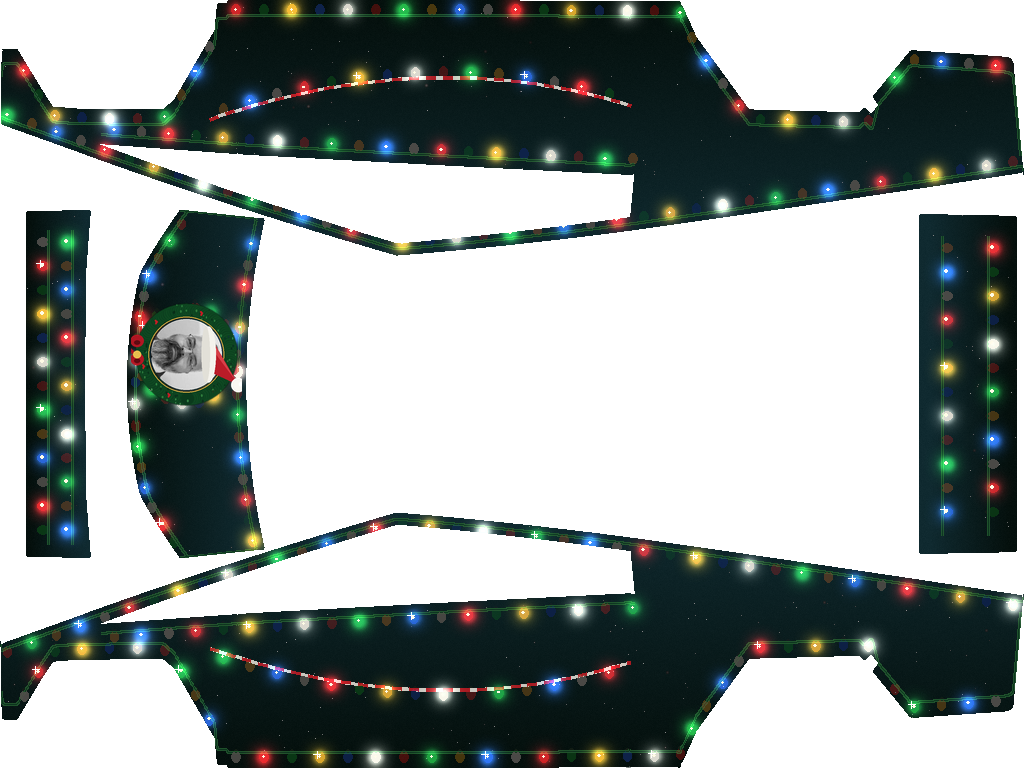
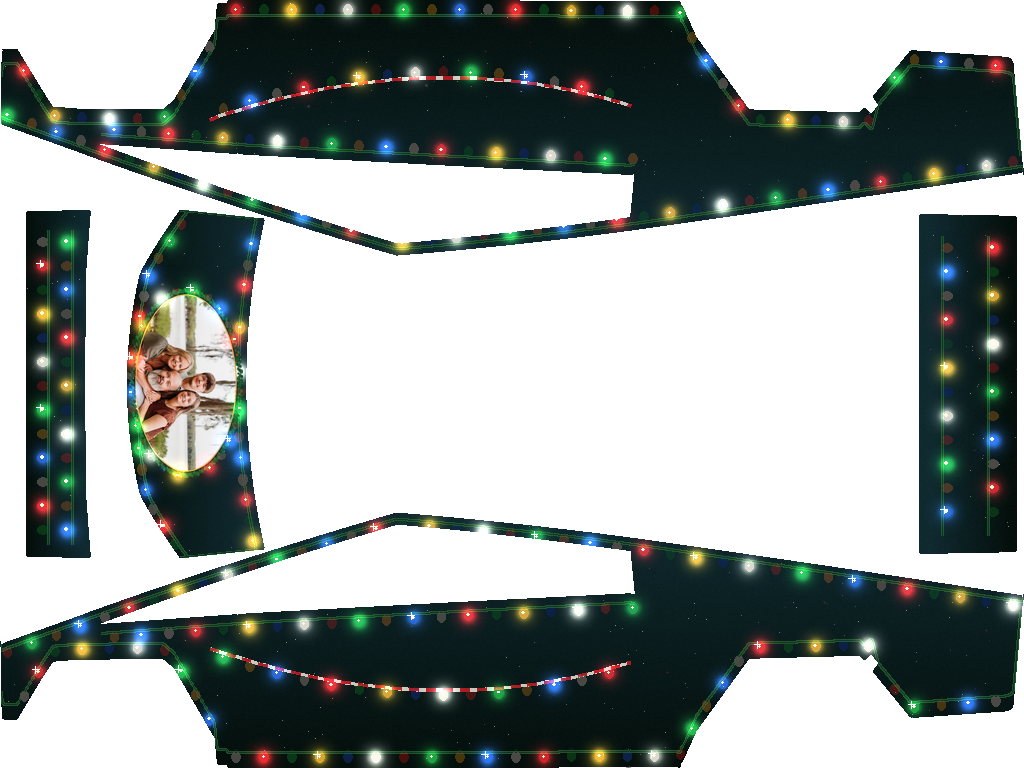
Put the family portrait on the Cybertruck hood
Replace the GitHub avatar with a larger oval crop of the four people,
centered on the hood panel. The wreath and light ring follow the oval;
the Santa hat is gone. The three twinkle states are otherwise unchanged.

Changed region(s): [[0.125, 0.3438, 0.25, 0.7188]]

diff --git a/cybertruck/generate_christmas_lights.py b/cybertruck/generate_christmas_lights.py
@@ -24,8 +24,8 @@ view of the same UV):
     Left bar      (x ~26-90)  front fascia. +x is up, +y is driver's side.
     Right bar     (x ~919-1016) tailgate. +x is down, +y is driver's side.
 
-The hood portrait is drawn upright, then rotated 90 degrees clockwise so the
-head points at the windshield.
+The family photo is drawn upright, then rotated 90 degrees clockwise so the
+heads point at the windshield and the group reads left-to-right from the front.
 
 Requires Pillow and numpy. Run from anywhere:
 
@@ -44,7 +44,9 @@ from scipy import ndimage
 
 ROOT = Path(__file__).resolve().parent
 TEMPLATE = ROOT / "template.png"
-AVATAR = ROOT / "assets" / "commit2cloud_avatar.png"
+FAMILY = ROOT / "assets" / "family_photo.jpg"
+# Tight crop of the four people on the 1600x1067 source. Every head stays in frame.
+FAMILY_CROP = (160, 0, 1520, 780)
 OUT_DIR = ROOT / "example"
 PREVIEW_DIR = ROOT / "preview"
 
@@ -65,11 +67,16 @@ WIRE = (14, 58, 32)
 WIRE_HI = (36, 92, 48)
 SOCKET = (18, 28, 20)
 
-# Hood medallion. Center is filled in from the hood island at runtime
-# (largest inscribed circle). These are the fallbacks and the radii.
-HOOD_CENTER = (187, 355)
-HOOD_FACE_R = 36
-HOOD_RING_R = 50
+# Hood portrait. place_hood() recenters this on the hood island.
+# Upright size: width runs across the family, height runs heads-to-feet.
+# A clockwise quarter-turn maps height onto template +x (toward the windshield)
+# and width onto template +y (across the hood).
+HOOD_CENTER = (186, 383)
+PHOTO_H = 100
+PHOTO_W = 174
+WREATH_PAD = 6
+HOOD_RING_RX = PHOTO_H / 2 + WREATH_PAD - 1
+HOOD_RING_RY = PHOTO_W / 2 + WREATH_PAD - 1
 
 BULB_SPACING = 28
 RING_SPACING = 17
@@ -109,13 +116,49 @@ def panel_masks(mask: np.ndarray) -> dict[str, np.ndarray]:
     return found
 
 
+def _ellipse_inside(hood: np.ndarray, cx: int, cy: int, rx: float, ry: float) -> bool:
+    if rx < 2 or ry < 2:
+        return False
+    yy, xx = np.ogrid[: hood.shape[0], : hood.shape[1]]
+    ell = ((xx - cx) / rx) ** 2 + ((yy - cy) / ry) ** 2 <= 1.0
+    return bool(ell.any() and np.all(hood[ell]))
+
+
 def place_hood(hood: np.ndarray) -> None:
-    """Center the medallion on the largest circle inside the hood island."""
-    global HOOD_CENTER
-    dist = ndimage.distance_transform_edt(hood)
-    cy, cx = np.unravel_index(int(dist.argmax()), dist.shape)
-    HOOD_CENTER = (int(cx), int(cy))
-    print(f"  hood medallion center {HOOD_CENTER}  inscribed r={dist[cy, cx]:.1f}")
+    """Center the portrait on the hood island and size it to the panel.
+
+    Vertical center is the middle of the island. Horizontal center is the
+    middle of the hood's depth at that row, so the oval sits in the panel
+    rather than on the inscribed-circle point the single avatar used.
+    """
+    global HOOD_CENTER, PHOTO_H, PHOTO_W, HOOD_RING_RX, HOOD_RING_RY
+    rows = np.where(hood.any(axis=1))[0]
+    cy = int((int(rows.min()) + int(rows.max())) // 2)
+    cols = np.where(hood[cy])[0]
+    cx = int((int(cols.min()) + int(cols.max())) // 2)
+    HOOD_CENTER = (cx, cy)
+
+    crop = Image.open(FAMILY).convert("RGB").crop(FAMILY_CROP)
+    aspect = crop.size[0] / crop.size[1]
+    # Grow until the light ellipse, plus a couple of pixels for the bulb glass,
+    # would leave the hood. Then step back so the frame stays on the panel.
+    height = 80
+    while height < 130:
+        width = int(round(height * aspect))
+        rx = height / 2 + WREATH_PAD + 2
+        ry = width / 2 + WREATH_PAD + 2
+        if not _ellipse_inside(hood, cx, cy, rx, ry):
+            break
+        height += 2
+    height -= 2
+    PHOTO_H = height
+    PHOTO_W = int(round(height * aspect))
+    HOOD_RING_RX = PHOTO_H / 2 + WREATH_PAD - 1
+    HOOD_RING_RY = PHOTO_W / 2 + WREATH_PAD - 1
+    print(
+        f"  hood portrait center {HOOD_CENTER}  "
+        f"photo {PHOTO_W}x{PHOTO_H}  light ellipse rx={HOOD_RING_RX:.0f} ry={HOOD_RING_RY:.0f}"
+    )
 
 
 def _runs(ys: np.ndarray) -> list[np.ndarray]:
@@ -233,13 +276,20 @@ def keep_inside(points: np.ndarray, mask: np.ndarray, margin: int = 3) -> np.nda
     return np.asarray(kept, np.float64) if kept else np.zeros((0, 2))
 
 
-def circle_points(cx, cy, radius, spacing) -> np.ndarray:
-    n = max(8, int(round(2 * math.pi * radius / spacing)))
+def ellipse_points(cx, cy, rx, ry, spacing) -> np.ndarray:
+    """Bulbs around the oval portrait. Angle 0 is template +x, the windshield side."""
+    h = ((rx - ry) / (rx + ry)) ** 2
+    circ = math.pi * (rx + ry) * (1 + 3 * h / (10 + math.sqrt(max(0.0, 4 - 3 * h))))
+    n = max(12, int(round(circ / spacing)))
     ang = np.linspace(0, 2 * math.pi, n, endpoint=False)
-    # Start at the top of the portrait (which becomes the windshield side
-    # after the clockwise rotation) so the first bulb sits above the hat.
-    ang = ang - math.pi / 2
-    return np.stack([cx + radius * np.cos(ang), cy + radius * np.sin(ang)], axis=1)
+    return np.stack([cx + rx * np.cos(ang), cy + ry * np.sin(ang)], axis=1)
+
+
+def outside_portrait(x: float, y: float, margin: float = 8) -> bool:
+    cx, cy = HOOD_CENTER
+    rx = HOOD_RING_RX + margin
+    ry = HOOD_RING_RY + margin
+    return ((x - cx) / rx) ** 2 + ((y - cy) / ry) ** 2 > 1.0
 
 
 class Strand:
@@ -271,14 +321,13 @@ def build_strands(panels: dict[str, np.ndarray]) -> list[Strand]:
     # Nose (front edge) and cowl (windshield edge), skipping the medallion.
     for side_name, phase in (("left", 0), ("right", 3)):
         raw = edge_path(hood, side_name, inset=8)
-        cx, cy = HOOD_CENTER
-        trimmed = [(x, y) for x, y in raw if (x - cx) ** 2 + (y - cy) ** 2 > (HOOD_RING_R + 10) ** 2]
+        trimmed = [(x, y) for x, y in raw if outside_portrait(x, y, margin=6)]
         strands.append(Strand(trimmed, (0, 1), phase=phase, spacing=22))
 
     cx, cy = HOOD_CENTER
-    ring = circle_points(cx, cy, HOOD_RING_R, RING_SPACING)
-    # Bulbs on the ring point outward.
-    strands.append(Strand(ring, (0, 0), phase=0, wire="none", spacing=RING_SPACING, radius=(4.4, 4.4)))
+    ring = ellipse_points(cx, cy, HOOD_RING_RX, HOOD_RING_RY, RING_SPACING)
+    # Drawn after the portrait so the bulbs sit on the wreath, not under it.
+    strands.append(Strand(ring, (0, 0), phase=0, wire="ring", spacing=RING_SPACING, radius=(3.6, 3.6)))
 
     front = panels["front"]
     # Two strands across the fascia. +x is up, so the bulbs hang toward -x.
@@ -446,7 +495,7 @@ def render_lights(base: np.ndarray, strands: list[Strand], mask: np.ndarray, var
     sd = ImageDraw.Draw(sparks)
 
     for strand in strands:
-        if strand.wire != "none" and len(strand.points) >= 2:
+        if strand.wire not in ("none", "ring") and len(strand.points) >= 2:
             draw_wire(wd, strand.points, strand.wire)
         samples = resample(strand.points, strand.spacing)
         samples = keep_inside(samples, mask, margin=3)
@@ -493,116 +542,73 @@ def render_lights(base: np.ndarray, strands: list[Strand], mask: np.ndarray, var
 
 
 def make_medallion() -> Image.Image:
-    """Upright portrait, wreath, Santa hat, and bow. Rotated by the caller."""
+    """Oval family portrait with a wreath. Rotated so heads point at the windshield.
+
+    No Santa hat: the crop is four people, and a hat would cover the back row.
+    """
     scale = 3
-    r = HOOD_FACE_R * scale
-    pad = int(r * 1.55)
-    S = pad * 2
-    cx = cy = pad
-    canvas = Image.new("RGBA", (S, S), (0, 0, 0, 0))
-    draw = ImageDraw.Draw(canvas)
+    pad = WREATH_PAD * scale
+    photo = Image.open(FAMILY).convert("RGB").crop(FAMILY_CROP)
+    face = photo.resize((PHOTO_W * scale, PHOTO_H * scale), Image.Resampling.LANCZOS)
+    fw, fh = face.size
+    canvas = Image.new("RGBA", (fw + pad * 2, fh + pad * 2), (0, 0, 0, 0))
+    ox, oy = pad, pad
 
-    # Wreath: a solid needle ring, then a few lighter clumps so it is not a dotted halo.
+    # Oval alpha, feathered so the photo meets the wreath cleanly.
+    alpha = Image.new("L", face.size, 0)
+    ImageDraw.Draw(alpha).ellipse((2, 2, fw - 3, fh - 3), fill=255)
+    alpha = alpha.filter(ImageFilter.GaussianBlur(radius=1.4))
+    face_rgba = face.convert("RGBA")
+    face_rgba.putalpha(alpha)
+
+    # Wreath band just outside the oval.
+    wreath = Image.new("RGBA", canvas.size, (0, 0, 0, 0))
+    wd = ImageDraw.Draw(wreath)
     rng = np.random.default_rng(12)
-    inner, outer = r * 1.06, r * 1.40
-    wreath = Image.new("RGBA", (S, S), (0, 0, 0, 0))
+    cx, cy = canvas.size[0] / 2, canvas.size[1] / 2
+    inner_rx, inner_ry = fw / 2 - 1, fh / 2 - 1
+    outer_rx, outer_ry = canvas.size[0] / 2 - 2, canvas.size[1] / 2 - 2
+    for i in range(360):
+        ang = i / 360 * 2 * math.pi
+        t = 0.35 + 0.55 * ((i % 3) / 2)
+        rx = inner_rx + (outer_rx - inner_rx) * t
+        ry = inner_ry + (outer_ry - inner_ry) * t
+        x = cx + rx * math.cos(ang)
+        y = cy + ry * math.sin(ang)
+        shade = (14, 72, 34, 255) if i % 2 == 0 else (22, 96, 44, 255)
+        nr = 3.2 + (i % 4)
+        wd.ellipse([x - nr, y - nr * 0.7, x + nr, y + nr * 0.7], fill=shade)
+    wreath = wreath.filter(ImageFilter.GaussianBlur(radius=1.2))
     wd = ImageDraw.Draw(wreath)
-    mid = (inner + outer) * 0.5
-    thick = (outer - inner) * 0.55
-    for i in range(240):
-        ang = i / 240 * 2 * math.pi
-        x = cx + mid * math.cos(ang)
-        y = cy + mid * math.sin(ang)
-        shade = (16, 78, 36, 255) if i % 2 == 0 else (10, 58, 28, 255)
-        wd.ellipse([x - thick, y - thick, x + thick, y + thick], fill=shade)
-    wreath = wreath.filter(ImageFilter.GaussianBlur(radius=1.4))
-    wd = ImageDraw.Draw(wreath)
-    for i in range(80):
+    for i in range(70):
         ang = rng.uniform(0, 2 * math.pi)
-        rad = rng.uniform(inner, outer)
-        x = cx + rad * math.cos(ang)
-        y = cy + rad * math.sin(ang)
-        nr = float(rng.uniform(2.0, 4.2))
-        shade = (46, 130, 62, 230) if i % 2 == 0 else (8, 48, 24, 230)
-        wd.ellipse([x - nr, y - nr * 0.6, x + nr, y + nr * 0.6], fill=shade)
+        t = rng.uniform(0.25, 0.95)
+        rx = inner_rx + (outer_rx - inner_rx) * t
+        ry = inner_ry + (outer_ry - inner_ry) * t
+        x = cx + rx * math.cos(ang)
+        y = cy + ry * math.sin(ang)
+        nr = float(rng.uniform(1.6, 3.4))
+        shade = (52, 130, 64, 220) if i % 2 == 0 else (8, 46, 22, 220)
+        wd.ellipse([x - nr, y - nr * 0.55, x + nr, y + nr * 0.55], fill=shade)
     canvas.alpha_composite(wreath)
-    draw = ImageDraw.Draw(canvas)
+    canvas.paste(face_rgba, (ox, oy), face_rgba)
 
-    # Gold rim.
+    draw = ImageDraw.Draw(canvas)
     draw.ellipse(
-        [cx - r - 2 * scale, cy - r - 2 * scale, cx + r + 2 * scale, cy + r + 2 * scale],
+        [ox + 1, oy + 1, ox + fw - 2, oy + fh - 2],
         outline=(212, 168, 64, 255),
         width=max(2, scale),
     )
+    # A few berries on the wreath, clear of the faces.
+    for ang in (0.15, 1.15, 2.2, 3.3, 4.4, 5.4):
+        rx = (inner_rx + outer_rx) * 0.5
+        ry = (inner_ry + outer_ry) * 0.5
+        bx = cx + rx * math.cos(ang)
+        by = cy + ry * math.sin(ang)
+        draw.ellipse([bx - 3.2, by - 3.2, bx + 3.2, by + 3.2], fill=(186, 28, 38, 255))
 
-    # Portrait, circular, focused on the face.
-    avatar = Image.open(AVATAR).convert("RGB")
-    face = avatar.crop((50, 0, 410, 360)).resize((r * 2, r * 2), Image.Resampling.LANCZOS)
-    mask = Image.new("L", (r * 2, r * 2), 0)
-    ImageDraw.Draw(mask).ellipse([1, 1, r * 2 - 2, r * 2 - 2], fill=255)
-    face_rgba = face.convert("RGBA")
-    face_rgba.putalpha(mask)
-    canvas.paste(face_rgba, (cx - r, cy - r), face_rgba)
-
-    # Berries on the wreath.
-    for ang in (0.4, 1.3, 2.4, 3.5, 5.1):
-        rad = (inner + outer) * 0.5
-        bx = cx + rad * math.cos(ang)
-        by = cy + rad * math.sin(ang)
-        for k, (ox, oy) in enumerate(((0, 0), (5, 2), (-4, 3))):
-            br = 3.4 if k == 0 else 2.6
-            draw.ellipse([bx + ox - br, by + oy - br, bx + ox + br, by + oy + br], fill=(196, 28, 36, 255))
-
-    # Santa hat. Brim across the upper hair, tip flopped to the viewer's right
-    # (which is the truck's left after rotation — still clearly a hat).
-    brim_y = cy - r * 0.62
-    brim_rx, brim_ry = r * 0.78, r * 0.20
-    tip = (cx + r * 0.85, cy - r * 1.45)
-    left = (cx - r * 0.62, brim_y + r * 0.02)
-    right = (cx + r * 0.48, brim_y - r * 0.02)
-    draw.polygon([left, right, tip], fill=(186, 28, 40, 255))
-    # Highlight along the left of the cone.
-    draw.polygon(
-        [left, (cx - r * 0.28, brim_y), (tip[0] - r * 0.18, tip[1] + r * 0.12)],
-        fill=(214, 64, 72, 255),
-    )
-    draw.ellipse(
-        [cx - brim_rx, brim_y - brim_ry, cx + brim_rx, brim_y + brim_ry],
-        fill=(244, 242, 236, 255),
-    )
-    draw.ellipse(
-        [cx - brim_rx, brim_y - brim_ry * 0.15, cx + brim_rx, brim_y + brim_ry],
-        fill=(226, 224, 216, 255),
-    )
-    pom_r = r * 0.20
-    draw.ellipse([tip[0] - pom_r, tip[1] - pom_r, tip[0] + pom_r, tip[1] + pom_r], fill=(250, 248, 242, 255))
-    draw.ellipse(
-        [tip[0] - pom_r * 0.4, tip[1] - pom_r * 0.55, tip[0] + pom_r * 0.15, tip[1] - pom_r * 0.05],
-        fill=(255, 255, 255, 255),
-    )
-
-    # Bow under the wreath (chin side → nose of the hood after rotation).
-    by = cy + outer * 0.98
-    loop_r = r * 0.30
-    for sign in (-1, 1):
-        lx = cx + sign * loop_r * 0.85
-        draw.ellipse([lx - loop_r, by - loop_r * 0.62, lx + loop_r * 0.15, by + loop_r * 0.62], fill=(176, 22, 34, 255))
-        draw.ellipse(
-            [lx - loop_r * 0.45, by - loop_r * 0.28, lx - loop_r * 0.05, by + loop_r * 0.28],
-            fill=(96, 10, 18, 255),
-        )
-        tail = [
-            (cx + sign * loop_r * 0.15, by + loop_r * 0.15),
-            (cx + sign * loop_r * 1.35, by + loop_r * 1.25),
-            (cx + sign * loop_r * 0.85, by + loop_r * 1.55),
-            (cx + sign * loop_r * 0.05, by + loop_r * 0.45),
-        ]
-        draw.polygon(tail, fill=(168, 20, 32, 255))
-    draw.ellipse([cx - r * 0.11, by - r * 0.11, cx + r * 0.11, by + r * 0.11], fill=(232, 190, 78, 255))
-
-    # Downscale the supersampled medallion, then turn the head toward +x
-    # (the windshield). ROTATE_270 is clockwise.
-    display = canvas.resize((S // scale, S // scale), Image.Resampling.LANCZOS)
+    display = canvas.resize((canvas.size[0] // scale, canvas.size[1] // scale), Image.Resampling.LANCZOS)
+    # Clockwise: heads (top of the upright photo) land on template +x, the windshield.
     return display.transpose(Image.Transpose.ROTATE_270)
 
 
@@ -649,8 +655,12 @@ def compose(template_rgb_alpha: np.ndarray, color: np.ndarray, mask: np.ndarray)
 
 
 def build_variant(bg: np.ndarray, strands, mask, template, variant: int) -> Image.Image:
-    lit = render_lights(bg, strands, mask, variant)
+    body = [s for s in strands if s.wire != "ring"]
+    ring = [s for s in strands if s.wire == "ring"]
+    lit = render_lights(bg, body, mask, variant)
     lit = paste_medallion(lit, mask)
+    if ring:
+        lit = render_lights(lit, ring, mask, variant)
     lit = np.where(mask[..., None], lit, 0)
     return compose(template, lit, mask)
 

diff --git a/cybertruck/README.md b/cybertruck/README.md
@@ -54,7 +54,7 @@ Download the template below and customize it with your own design. For complete 
 
 ## Christmas Lights
 
-Three stills of one wrap, with the bulbs in different on/off states so switching them in Paint Shop reads as a twinkle. Strands of multicolor C9 lights follow the body lines on a night-evergreen truck with light snow. The hood carries a wreath, a Santa hat, and the portrait from the repo owner's GitHub avatar.
+Three stills of one wrap, with the bulbs in different on/off states so switching them in Paint Shop reads as a twinkle. Strands of multicolor C9 lights follow the body lines on a night-evergreen truck with light snow. The hood carries the family portrait in an oval wreath, centered on the panel.
 
 * [Christmas_Lights_1.png](example/Christmas_Lights_1.png) — every bulb lit
 * [Christmas_Lights_2.png](example/Christmas_Lights_2.png) — phase A
